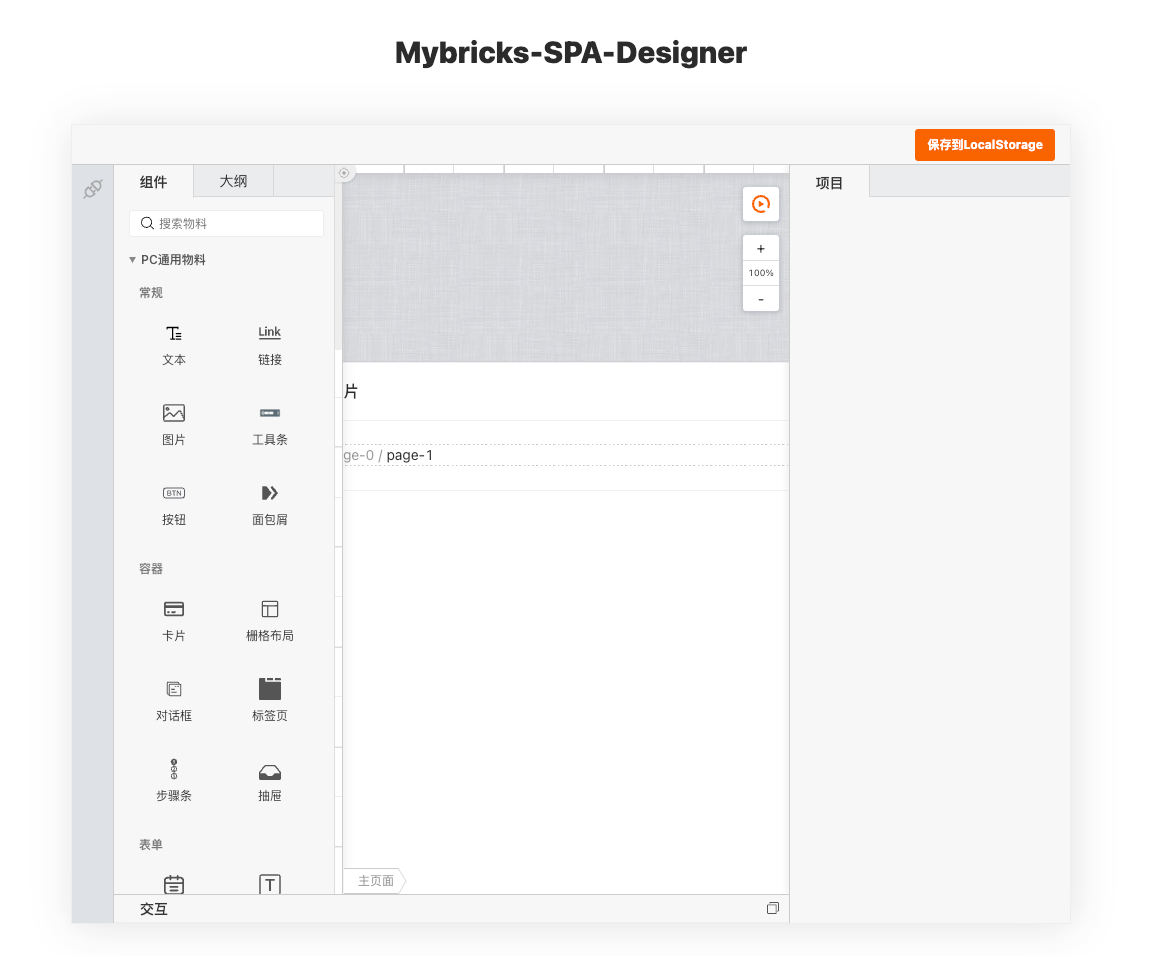
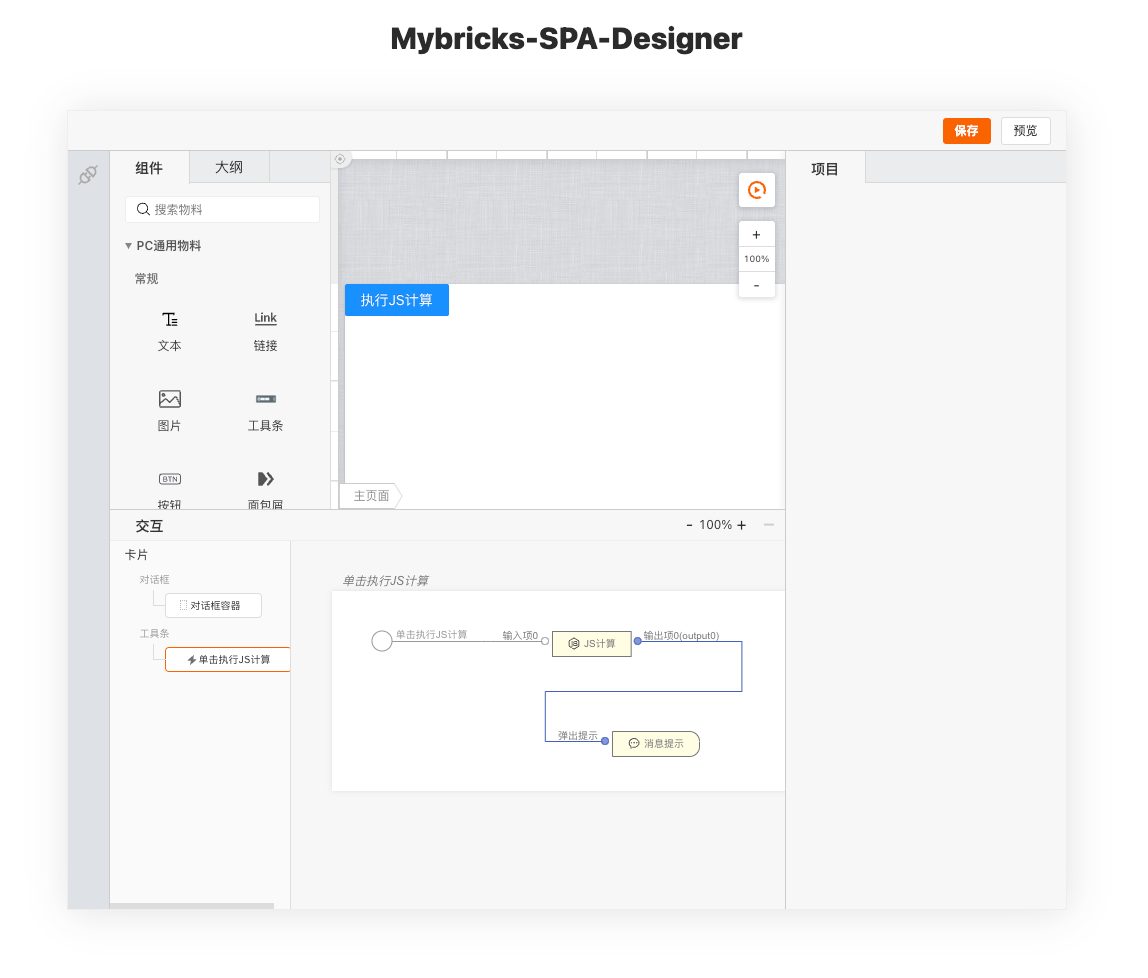
add preview

diff --git a/src/MyDesigner.tsx b/src/MyDesigner.tsx
@@ -85,7 +85,7 @@ export default function MyDesigner() {
     <>
       <div className={css.show}>
         <div className={css.toolbar}>
-          <button className={css.primary} onClick={save}>保存到LocalStorage</button>
+          <button className={css.primary} onClick={save}>保存</button>
           <button onClick={preview}>预览</button>
         </div>
         <div className={css.designer}>

diff --git a/src/MyDesigner.less b/src/MyDesigner.less
@@ -38,7 +38,7 @@
     button {
       border: 1px solid #DDD;
       border-radius: 3px;
-      padding: 7px 12px;
+      padding: 4px 12px;
       margin: 0 5px;
       cursor: pointer;
       background-color: #FFF;
